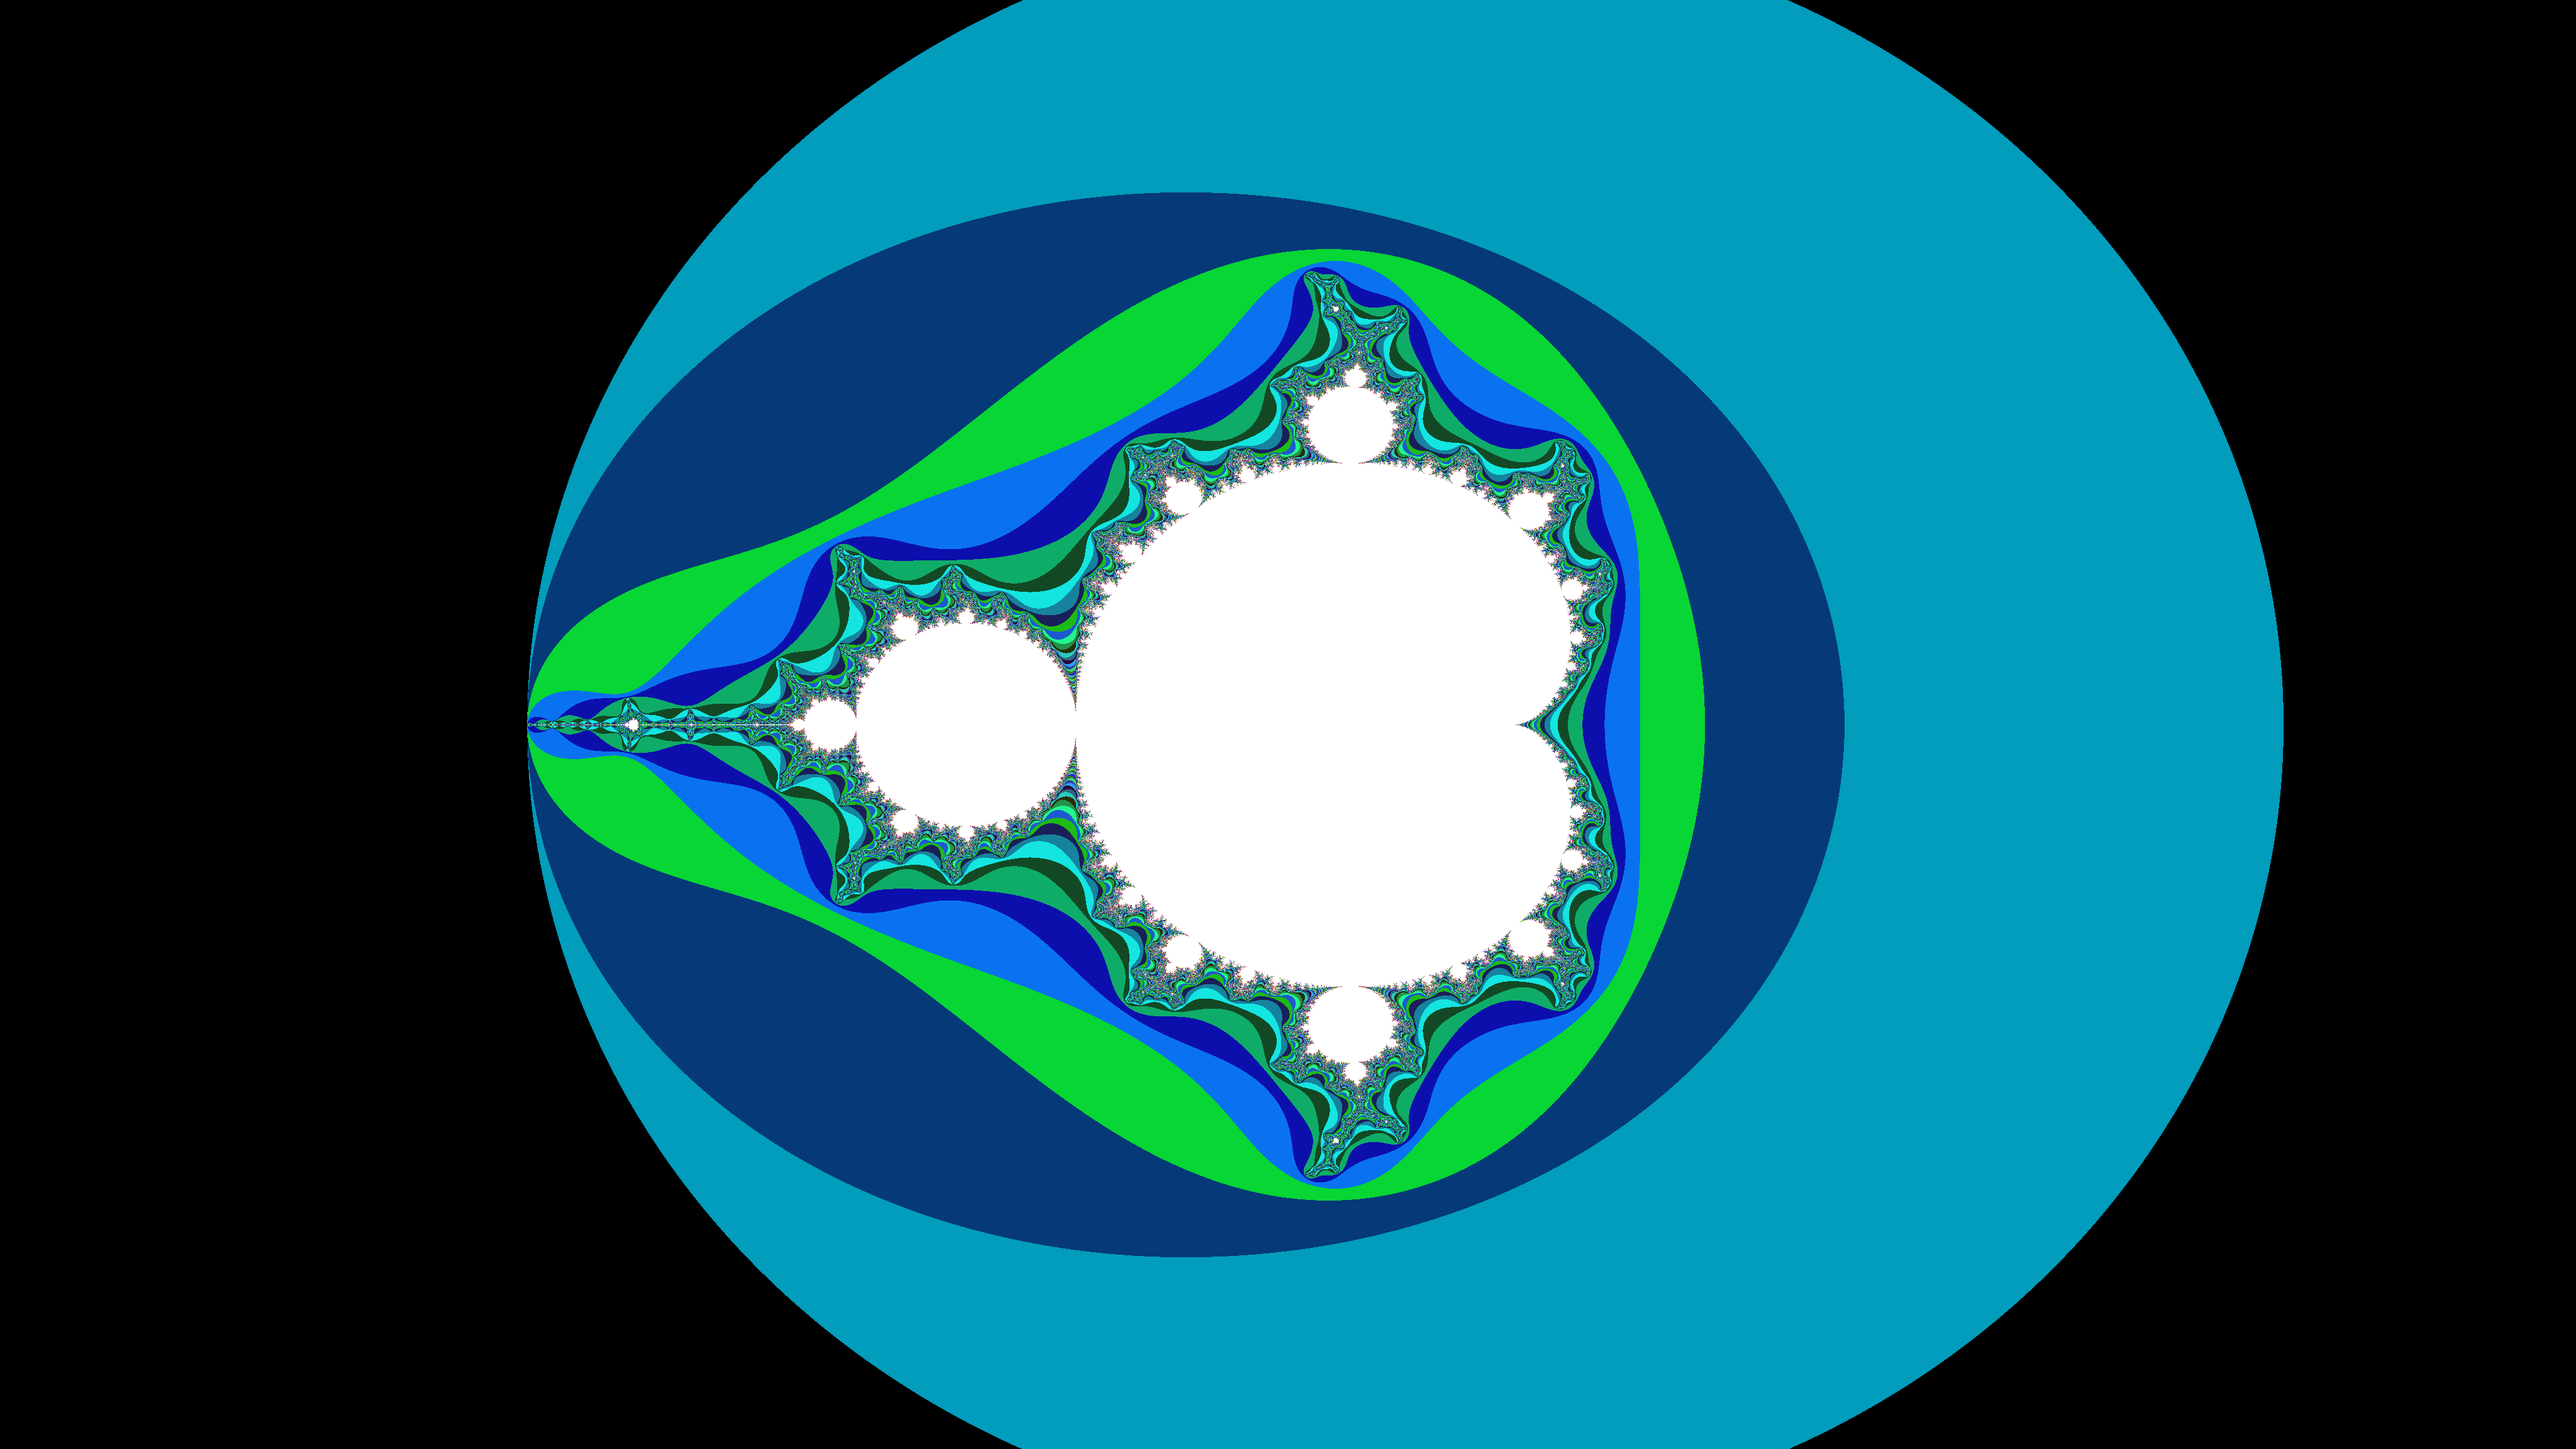
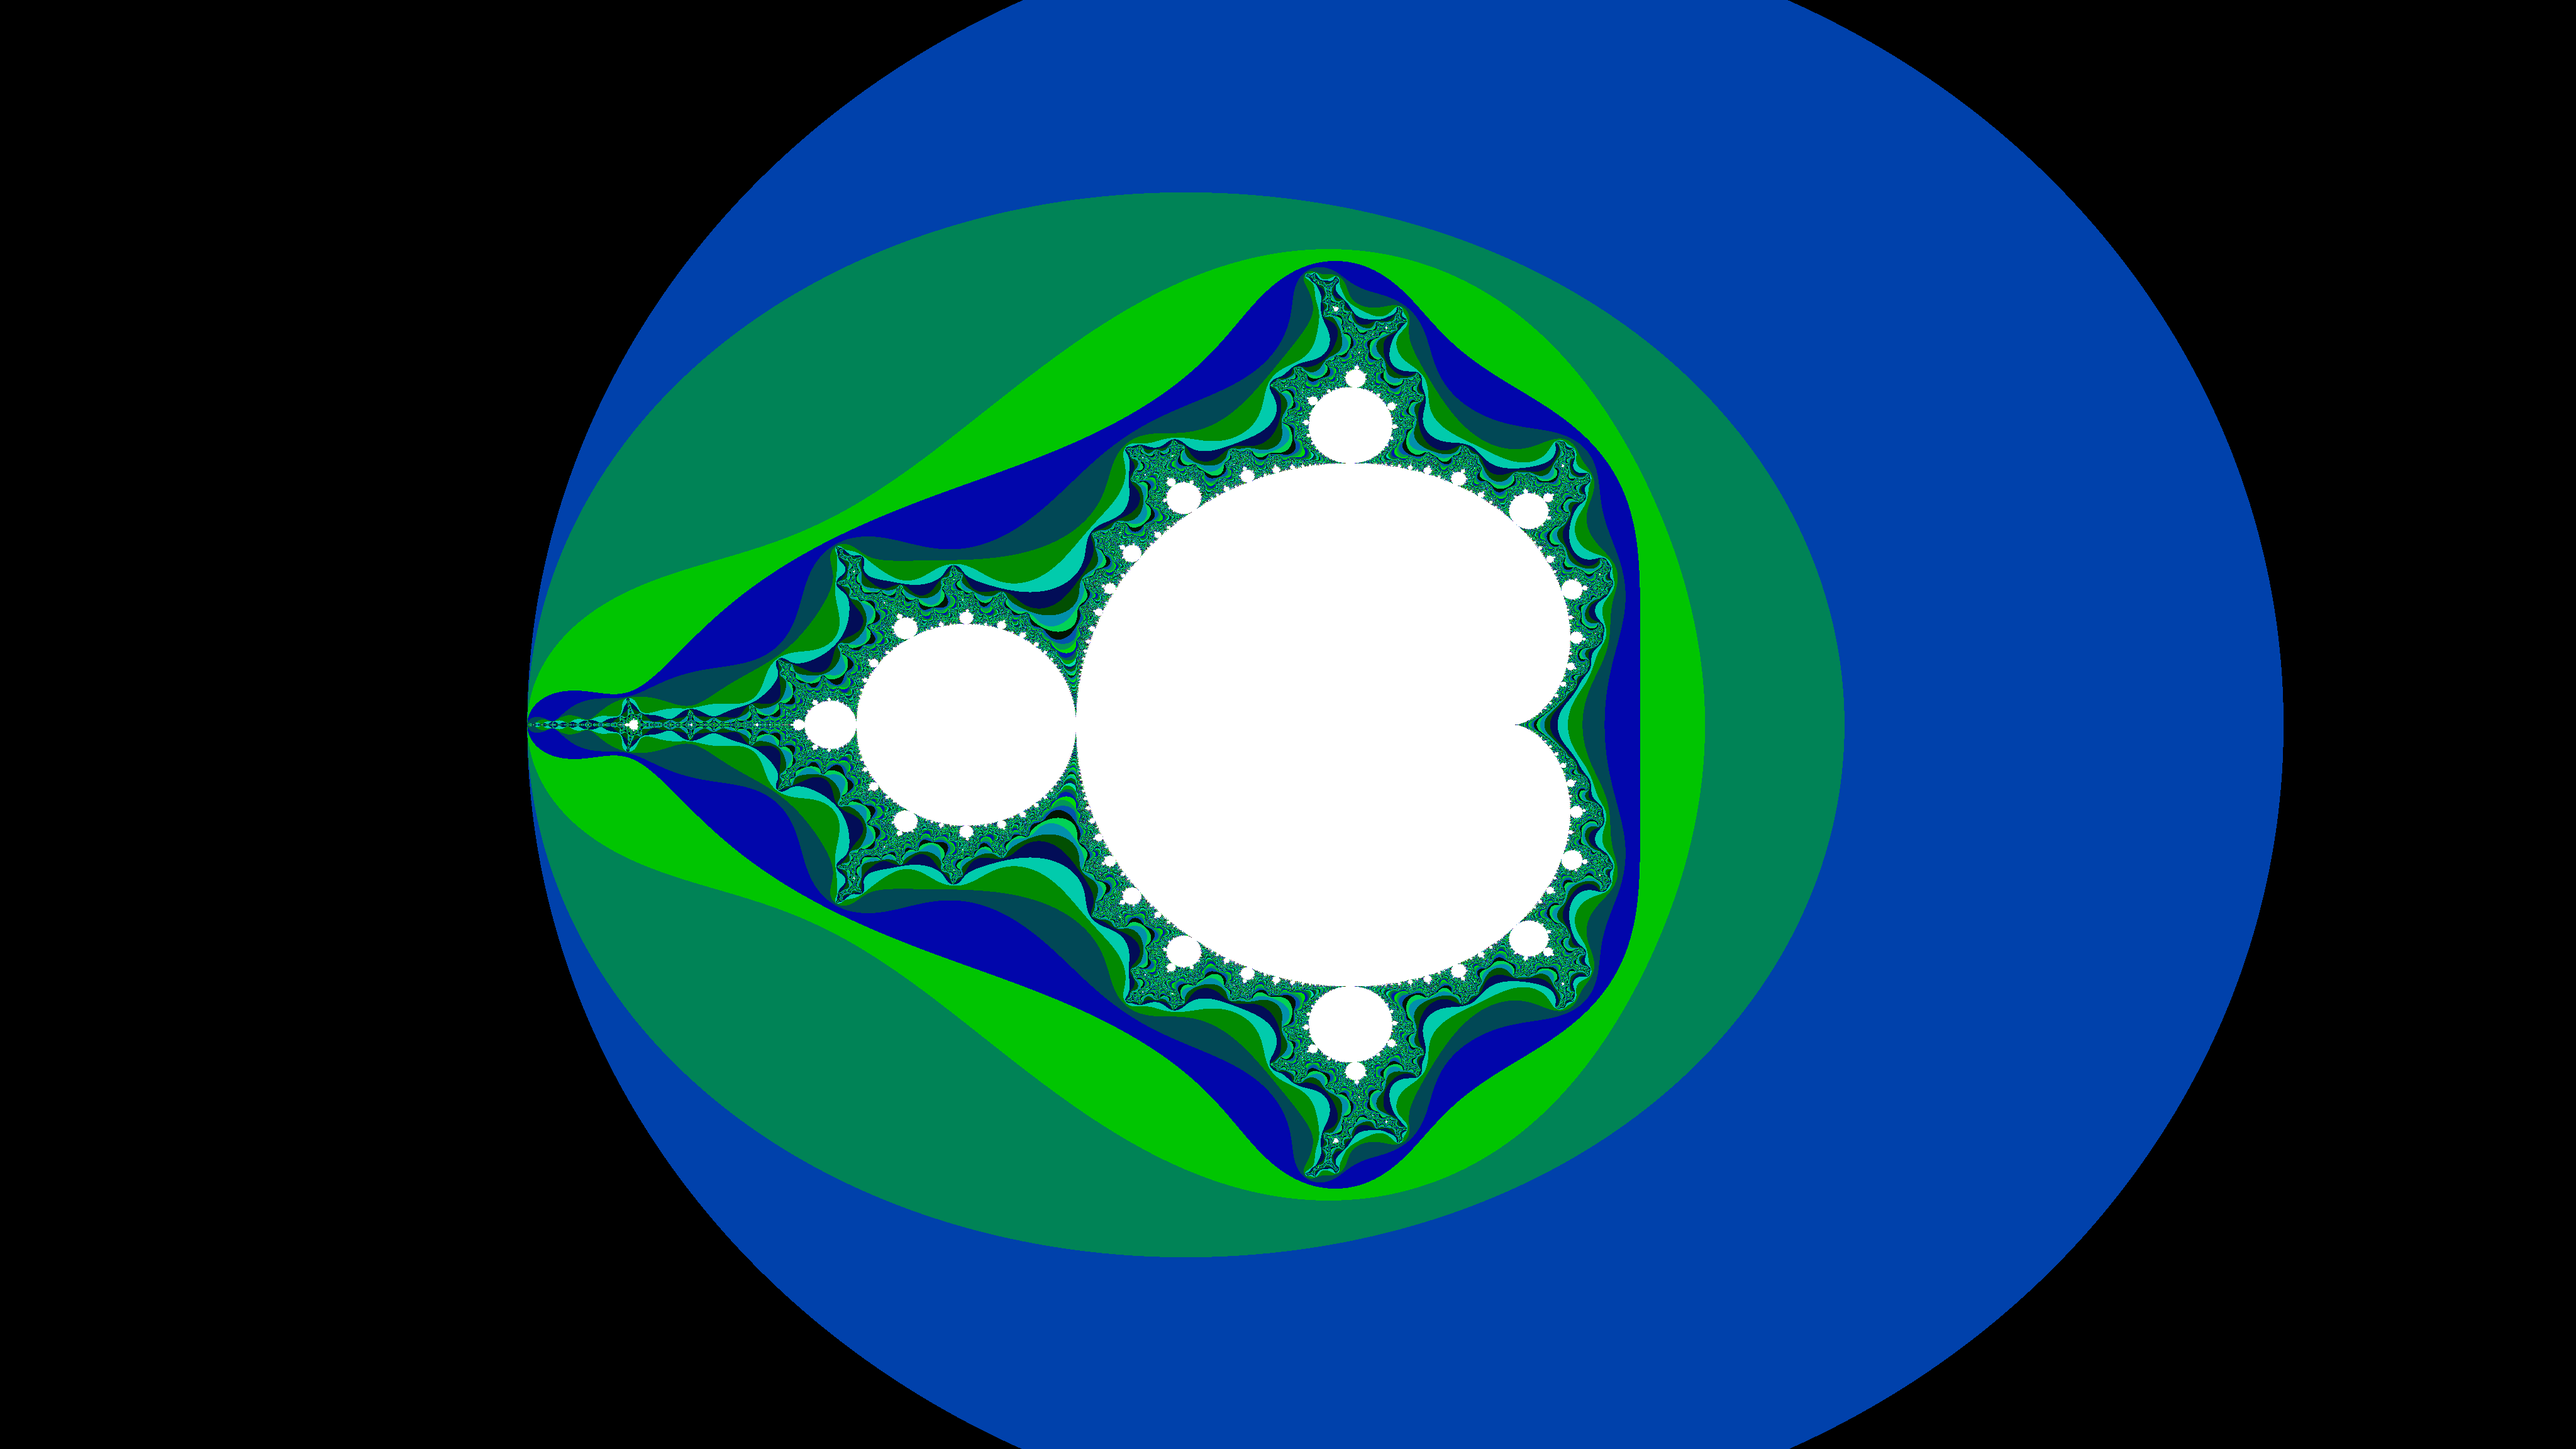
adds a palette to change the colors

diff --git a/runner.py b/runner.py
@@ -5,7 +5,7 @@ import cython
 from fractal_generator import fractal, julia_set
 
 
-# Here I'm using 2 functions of my other project random_tools on github
+# Here I'm using some of my functions of my other project random_tools on github
 def scale( input_tensor, new_min, new_max):
         current_min = np.min(input_tensor)
         current_max = np.max(input_tensor)
@@ -17,7 +17,7 @@ def scale( input_tensor, new_min, new_max):
 
 def tensor_to_image(tensor, imgname, newmin= None, newmax= None):
         shape = tensor.shape
-        array_image = np.nan_to_num(tensor, nan=0, posinf=1, neginf=-1)
+        array_image = np.nan_to_num(tensor.copy(), nan=0, posinf=1, neginf=-1)
         del tensor
         if (newmin == None) or (newmax == None):
             array_image = scale(array_image, 0, 16777215)
@@ -49,17 +49,48 @@ def tensor_to_image(tensor, imgname, newmin= None, newmax= None):
         print(f'and {imgname}.png' )
 
 
+def image_to_array(image_path, min=0, max=2**24-1):
+        img = Image.open(image_path)
+    
+        array_image = np.array(img).astype(np.int64)
+    
+    
+        if array_image.ndim != 3:
+            array_image = np.array(img.convert("RGBA"))
+            
+        if array_image.ndim == 3:
+              if array_image.shape[2] == 4:
+                      array_image = array_image[:, :, :-1].astype(np.int64)
+                      
+              if array_image.shape[2] == 3:
+                      array_image = (array_image[:, :, 0]*(256**2)+array_image[:, :, 1]*(256)+array_image[:, :, 2])
+    
+        shape = array_image.shape
+        array_image = array_image.reshape(shape[0],shape[1])
 
-def create_image(data, filename):
-    data = np.nan_to_num(data, nan=0, posinf=1, neginf=-1)
-    data = np.round(scale(data, 0, 255))
-    normalized_data = data
-    image = Image.fromarray(normalized_data.astype(np.uint8))
+        array_image = np.clip(array_image , min, max)
+        
+        return array_image
 
-    image.save(filename)
-    print(f"Images Saved to: {filename}")
 
-# To do: I need a better of selecting the colors
+
+def create_image(palette, data, filename, top_colors=4):
+    data = data.copy() 
+    shape = data.shape
+    palette = image_to_array(palette)
+    unique_colors, counts = np.unique(palette, return_counts=True)
+    sorted_indices = np.argsort(counts)[::-1]
+    
+    array_top_colors = unique_colors[sorted_indices][:top_colors]
+
+
+    data = np.round(scale(np.abs(np.sin(data)) , 0, array_top_colors.shape[0]-1)).reshape(-1)
+    for i, n in enumerate(array_top_colors):
+        data[data == i] = n
+
+    tensor_to_image(data.reshape(shape), filename, np.min(data),np.max(data))
+
+
 
 
 width = 4096 # I'm using ratio 16/9
@@ -73,12 +104,12 @@ max_iterations = 1000
 mandelbrot_set = fractal(width, height, xmin, xmax, ymin, ymax, max_iterations)
 
 
-create_image(mandelbrot_set.T, "blackandwhite.png")
+create_image("palette.png",mandelbrot_set.T, "colorful", top_colors=7)
 tensor_to_image(mandelbrot_set.T,"generated_fractal", 0,2**24-1)
 
 julia_set = julia_set(width, height, -0.8, 0.16, xmin, xmax, ymin, ymax, max_iterations)
 
-create_image(julia_set.T, "blackandwhite_julia_set.png")
+create_image("palette.png",julia_set.T, "colorful_julia_set", top_colors=7)
 tensor_to_image(julia_set.T,"generated_fractal_julia_set", 0,2**24-1)
 
 
